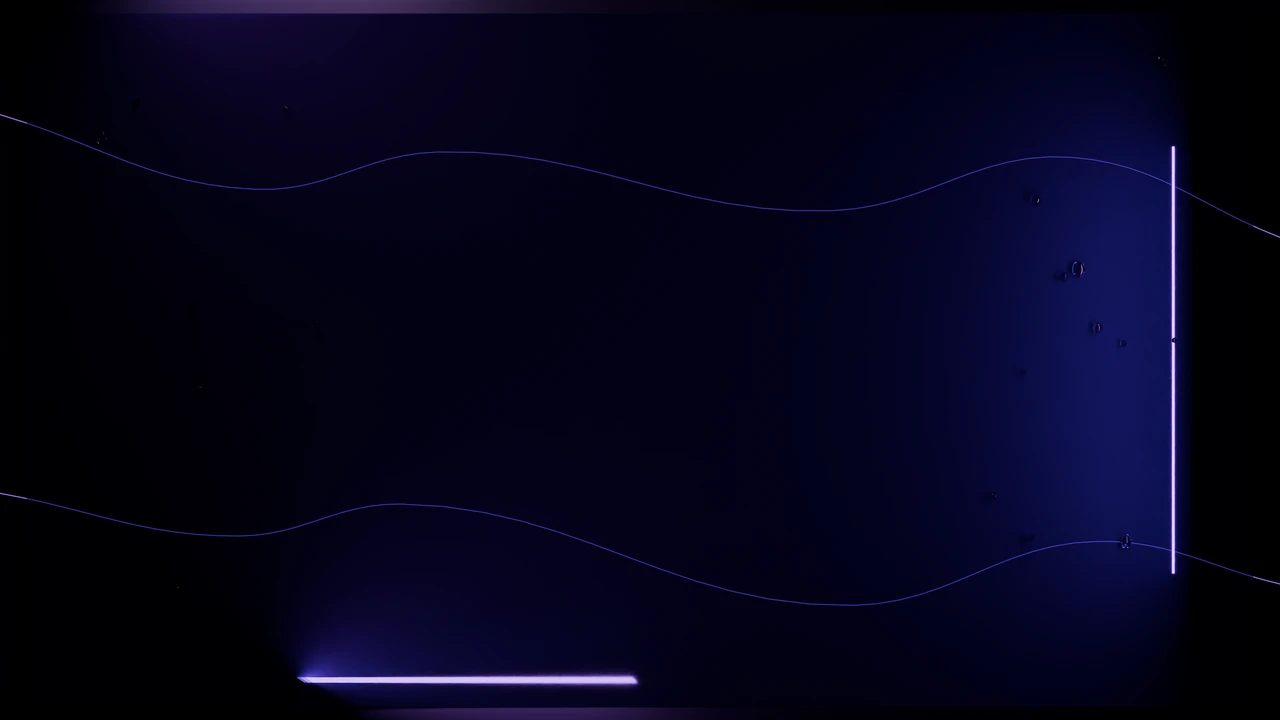
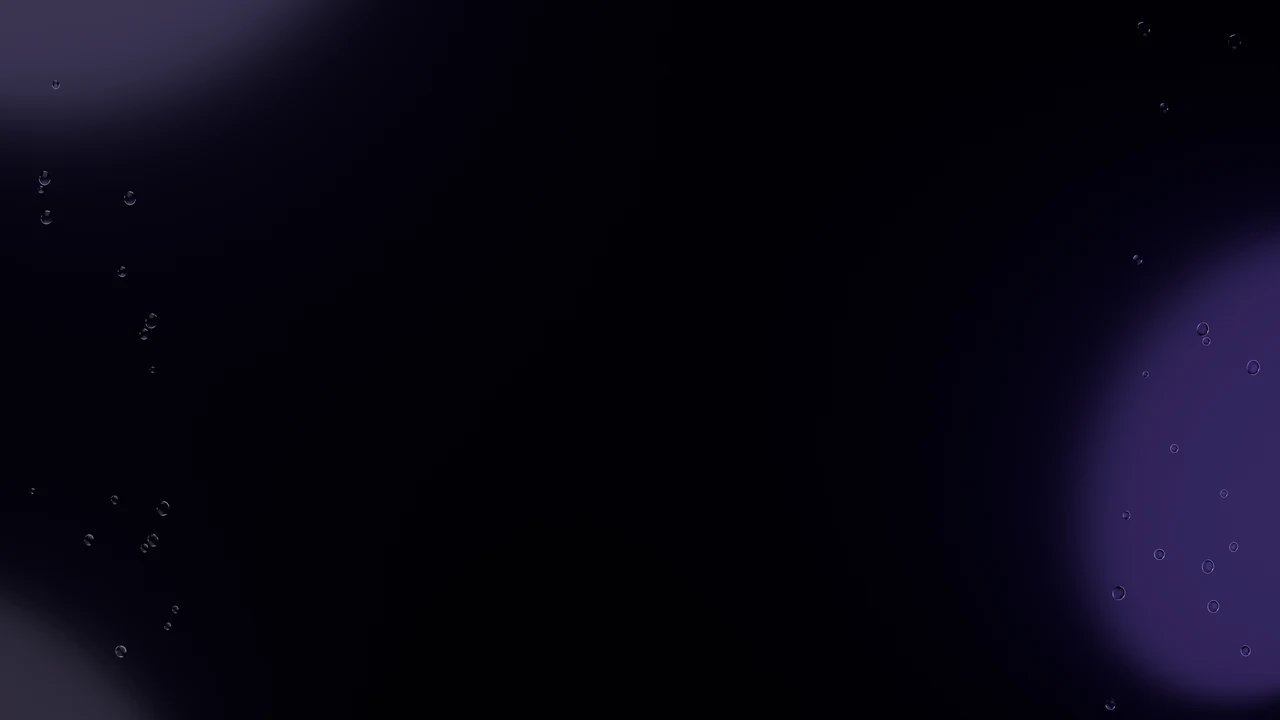
Refine quiet infinity glass and remove sweeping light effects

diff --git a/public/index.html b/public/index.html
@@ -16,10 +16,10 @@
   <link rel="icon" href="./assets/favicon/favicon.ico" sizes="any">
   <link rel="icon" type="image/png" sizes="32x32" href="./assets/favicon/favicon-32x32.png">
   <link rel="apple-touch-icon" href="./assets/favicon/apple-touch-icon.png">
-  <script src="./motion-preference.js?v=optical-2"></script>
+  <script src="./motion-preference.js?v=quiet-3"></script>
   <link rel="stylesheet" href="./home.css">
-  <link rel="stylesheet" href="./glass-depth.css?v=optical-2">
-<link rel="stylesheet" href="crystal-studio.css?v=optical-2">
+  <link rel="stylesheet" href="./glass-depth.css?v=quiet-3">
+<link rel="stylesheet" href="crystal-studio.css?v=quiet-3">
 </head>
 <body>
   <a class="skip-link" href="#obsah">Přejít na obsah</a>
@@ -34,8 +34,8 @@
       <div class="hero-copy"><h1 id="hero-title">Weby a aplikace, <em>které fungují.</em></h1><p>Navrhujeme weby, stavíme aplikace, automatizujeme práci a pomáháme s IT.</p><div class="actions"><a class="button button-primary" href="#kontakt">Kontakt <span aria-hidden="true">↗</span></a><a class="button button-secondary" href="#prace">Prohlédnout práci <span aria-hidden="true">↗</span></a></div></div>
       <div class="hero-art">
         <span class="glass-drop glass-drop-one" aria-hidden="true"></span><span class="glass-drop glass-drop-two" aria-hidden="true"></span>
-        <picture class="hero-art-poster" aria-hidden="true"><source media="(min-width: 1600px)" srcset="./assets/crystal-poster-2160.webp?v=optical-2"><source media="(max-width: 760px)" srcset="./assets/crystal-poster-720.webp?v=optical-2"><img src="./assets/crystal-poster-1280.webp?v=optical-2" alt="" width="1280" height="1280" fetchpriority="high"></picture>
-        <video class="hero-art-video" muted loop playsinline preload="none" aria-hidden="true" poster="./assets/crystal-poster-1280.webp?v=optical-2" data-mp4-small="./assets/crystal-loop-768.mp4?v=optical-2" data-mp4-medium="./assets/crystal-loop-1080.mp4?v=optical-2" data-mp4-large="./assets/crystal-loop-1440.mp4?v=optical-2"><source src="./assets/crystal-loop-768.mp4?v=optical-2" type="video/mp4"><source src="./assets/hero-glass-loop-720.webm" type="video/webm"></video>
+        <picture class="hero-art-poster" aria-hidden="true"><source media="(min-width: 1600px)" srcset="./assets/crystal-poster-2160.webp?v=quiet-3"><source media="(max-width: 760px)" srcset="./assets/crystal-poster-720.webp?v=quiet-3"><img src="./assets/crystal-poster-1280.webp?v=quiet-3" alt="" width="1280" height="1280" fetchpriority="high"></picture>
+        <video class="hero-art-video" muted loop playsinline preload="none" aria-hidden="true" poster="./assets/crystal-poster-1280.webp?v=quiet-3" data-mp4-small="./assets/crystal-loop-768.mp4?v=quiet-3" data-mp4-medium="./assets/crystal-loop-1080.mp4?v=quiet-3" data-mp4-large="./assets/crystal-loop-1440.mp4?v=quiet-3"><source src="./assets/crystal-loop-768.mp4?v=quiet-3" type="video/mp4"><source src="./assets/hero-glass-loop-720.webm" type="video/webm"></video>
       </div>
       <button class="hero-motion-toggle" type="button" hidden>Zapnout animace</button>
     </section>
@@ -60,6 +60,6 @@
     </div></section>
   </main>
   <footer class="site-footer"><div class="shell footer-layout footer-inner"><div><a class="brand" href="./index.html">Cingy<span>.</span>Tech</a><p>Weby, aplikace, automatizace a IT služby.</p></div><div class="footer-links"><a href="mailto:contact.cingytech@proton.me">contact.cingytech@proton.me</a><a href="/pages/omne.html">O Cingy.Tech</a><a href="/pages/blog/">Tipy a články</a><a href="/pages/kontakt.html">Kontakt</a><a href="/pages/privacy.html">Ochrana osobních údajů</a></div></div><div class="shell footer-bottom"><span>© 2026 Cingy.Tech</span><span>Kryštof Cingálek · IČO 29612071</span></div></footer>
-  <script src="./ads-tracking.js" defer></script><script src="./home.js?v=optical-2" defer></script><script src="./hero-orb.js?v=optical-2" defer></script><script src="./depth-motion.js?v=optical-2" defer></script>
+  <script src="./ads-tracking.js" defer></script><script src="./home.js?v=quiet-3" defer></script><script src="./hero-orb.js?v=quiet-3" defer></script><script src="./depth-motion.js?v=quiet-3" defer></script>
 </body>
 </html>

diff --git a/public/depth-motion.js b/public/depth-motion.js
@@ -9,7 +9,7 @@
   const allowed=()=>!root.classList.contains('motion-disabled')&&(!reduced.matches||root.classList.contains('motion-enabled'));
   const scene=document.createElement('div');
   scene.className='optical-scene';scene.setAttribute('aria-hidden','true');
-  ['optical-pane','optical-ray optical-ray-one','optical-ray optical-ray-two'].forEach(name=>{const layer=document.createElement('span');layer.className=name;scene.appendChild(layer);});
+  const pane=document.createElement('span');pane.className='optical-pane';scene.appendChild(pane);
   document.body.prepend(scene);
   const limited=innerWidth<=760||navigator.connection?.saveData||navigator.hardwareConcurrency<=4||navigator.deviceMemory<=4;
   scene.classList.toggle('optical-lite',Boolean(limited));
@@ -54,7 +54,7 @@
   surfaces.forEach(element=>{
     element.classList.add('optical-surface');
     const optics=document.createElement('span');optics.className='glass-optics';optics.setAttribute('aria-hidden','true');element.appendChild(optics);
-    ['glass-glint','glass-caustic'].forEach(name=>{const glint=document.createElement('span');glint.className=name;optics.appendChild(glint);});
+    const glint=document.createElement('span');glint.className='glass-glint';optics.appendChild(glint);
   });
   function resetSurface(element){['--tilt-x','--tilt-y','--glint-shift'].forEach(property=>element.style.removeProperty(property));}
   function configurePointer(){
@@ -62,26 +62,16 @@
     if(!allowed())return;
     pointerEvents=new AbortController();const signal=pointerEvents.signal,options={signal,passive:true};
     surfaces.forEach(element=>{
-      let rect,frame,position,wave;
-      const refract=()=>{
-        if(document.hidden||!allowed())return;
-        wave?.cancel();
-        const lens=element.querySelector(':scope > .glass-optics > .glass-caustic');
-        if(!lens?.animate)return;
-        wave=lens.animate([{opacity:0,transform:'translateX(-85%) scale(.65) rotate(-15deg)'},{opacity:.65,offset:.4,transform:'translateX(0) scale(1) rotate(-9deg)'},{opacity:0,transform:'translateX(85%) scale(1.2) rotate(-3deg)'}],{duration:850,easing:'cubic-bezier(.2,.7,.25,1)'});
-        active.add(wave);const current=wave;
-        current.finished.catch(()=>{}).finally(()=>active.delete(current));
-      };
+      let rect,frame,position;
       const invalidate=()=>{rect=null;};window.addEventListener('scroll',invalidate,{...options,capture:true});window.addEventListener('resize',invalidate,options);
-      signal.addEventListener('abort',()=>{cancelAnimationFrame(frame);wave?.cancel();},{once:true});
-      element.addEventListener('focusin',event=>{if(event.target===element||element.matches('.contact-form'))refract();},options);
+      signal.addEventListener('abort',()=>{cancelAnimationFrame(frame);},{once:true});
       if(!pointer.matches)return;
-      element.addEventListener('pointerenter',()=>{rect=element.getBoundingClientRect();refract();},options);
+      element.addEventListener('pointerenter',()=>{rect=element.getBoundingClientRect();},options);
       element.addEventListener('pointermove',event=>{
         if(event.pointerType==='touch')return;position={x:event.clientX,y:event.clientY};if(frame)return;
         frame=requestAnimationFrame(()=>{frame=null;if(!allowed()||document.hidden||signal.aborted)return;rect??=element.getBoundingClientRect();
           const x=Math.max(0,Math.min(1,(position.x-rect.left)/rect.width)),y=Math.max(0,Math.min(1,(position.y-rect.top)/rect.height));
-          element.style.setProperty('--tilt-x',`${(.5-y)*3.6}deg`);element.style.setProperty('--tilt-y',`${(x-.5)*6.5}deg`);element.style.setProperty('--glint-shift',`${x*rect.width*1.3}px`);
+          element.style.setProperty('--tilt-x',`${(.5-y)*2.4}deg`);element.style.setProperty('--tilt-y',`${(x-.5)*4}deg`);element.style.setProperty('--glint-shift',`${(x-.5)*14}px`);
         });
       },options);
       element.addEventListener('pointerleave',()=>{cancelAnimationFrame(frame);frame=null;rect=null;resetSurface(element);},options);

diff --git a/public/crystal-studio.css b/public/crystal-studio.css
@@ -11,26 +11,21 @@
 body{font-family:Manrope,"Segoe UI",Arial,sans-serif}
 body{isolation:isolate}
 .optical-scene{position:fixed;inset:0;z-index:-1;pointer-events:none;overflow:hidden;contain:strict;background:#090a10}
-.optical-pane{position:absolute;inset:-3%;background:url('./assets/optical-backdrop-2560.webp') center/cover no-repeat;opacity:.62}
-.optical-ray{position:absolute;left:-25%;width:150%;height:20%;border-radius:50%;opacity:.2;background:radial-gradient(ellipse,rgba(171,103,255,.20),rgba(71,30,122,.08) 38%,transparent 68%);transform:rotate(-13deg)}
-.optical-ray-one{top:22%}.optical-ray-two{bottom:8%;transform:rotate(12deg)}
-.optical-active .optical-ray-one{animation:optical-tide 14s ease-in-out infinite alternate}
-.optical-active .optical-ray-two{animation:optical-tide 19s ease-in-out -7s infinite alternate-reverse}
-@keyframes optical-tide{from{transform:translate3d(-2%,-12%,0) rotate(-12deg);opacity:.25}to{transform:translate3d(3%,22%,0) rotate(-8deg);opacity:.65}}
-.optical-lite .optical-ray-two{display:none}.optical-lite .optical-pane{background-image:url('./assets/optical-backdrop-1280.webp');opacity:.45}.optical-lite .optical-ray-one{animation:none}
+.optical-pane{position:absolute;inset:0;background:url('./assets/optical-backdrop-2560.webp?v=quiet-3') center/cover no-repeat;opacity:.68}
+.optical-lite .optical-pane{background-image:url('./assets/optical-backdrop-1280.webp?v=quiet-3');opacity:.62}
+@media(max-width:760px){.optical-lite .optical-pane{background-image:url('./assets/optical-backdrop-mobile.webp?v=quiet-3');background-position:right center}}
 .optical-surface{isolation:isolate}
 .optical-surface:is(.button,.header-cta,.btn){position:relative}
 .glass-optics{position:absolute;inset:0;z-index:5;border-radius:inherit;overflow:hidden;pointer-events:none}
-.glass-caustic{position:absolute;inset:0;z-index:5;border-radius:inherit;pointer-events:none;opacity:0;background:radial-gradient(ellipse at 42% 48%,transparent 31%,rgba(212,179,255,.16) 37%,rgba(249,233,255,.44) 38%,transparent 41%,rgba(188,126,255,.10) 45%,transparent 58%)}
-.optical-surface>.glass-optics>.glass-glint{border-radius:inherit;opacity:0;transition:opacity .35s,transform .12s ease-out}
-.optical-surface:hover>.glass-optics>.glass-glint,.optical-surface:focus-within>.glass-optics>.glass-glint{opacity:.75}
+/* Broad studio reflection: short pointer travel, no sweeping beam or lens ring. */
+.optical-surface>.glass-optics>.glass-glint{inset:-40% -30%;width:auto;border-radius:50%;background:radial-gradient(ellipse at 40% 20%,rgba(230,208,255,.55),rgba(158,104,227,.18) 32%,transparent 66%);transform:translate3d(var(--glint-shift,0px),0,0);opacity:0;transition:opacity .5s ease,transform .4s var(--depth-ease)}
+.optical-surface:hover>.glass-optics>.glass-glint,.optical-surface:focus-within>.glass-optics>.glass-glint{opacity:.12}
 .signal-icon,.signal-arrow{transition:transform .35s var(--depth-ease),background .35s}
 .signal:hover .signal-icon,.signal:focus-visible .signal-icon{transform:translateY(-2px) rotate(-3deg)}
 .signal:hover .signal-arrow,.signal:focus-visible .signal-arrow{transform:translate(2px,-2px);background:rgba(164,105,255,.25)}
 .subpage .glass:hover{border-color:rgba(221,187,255,.65)}
 .contact-form input:focus-visible,.contact-form textarea:focus-visible{outline:2px solid #c5a5ff;outline-offset:3px;box-shadow:0 0 20px -7px rgba(155,84,255,.45)}
 .demo-links a,.site-nav a{transition:color .25s,transform .25s}.demo-links a:hover,.site-nav a:hover{transform:translateY(-2px)}
-.optical-surface>.glass-glint,.optical-surface>.glass-caustic{overflow:hidden}
 html.motion-disabled .signal-icon,html.motion-disabled .signal-arrow,html.motion-disabled .demo-links a,html.motion-disabled .site-nav a{transform:none!important}
 @media(prefers-reduced-motion:reduce){html:not(.motion-enabled) .signal-icon,html:not(.motion-enabled) .signal-arrow,html:not(.motion-enabled) .demo-links a,html:not(.motion-enabled) .site-nav a{transform:none!important}}
 .brand{font-weight:800;letter-spacing:-.065em}

diff --git a/public/pages/weby-aplikace.html b/public/pages/weby-aplikace.html
@@ -8,10 +8,10 @@
   <meta name="theme-color" content="#0b0b12">
   <link rel="canonical" href="https://cingy.tech/pages/weby-aplikace.html">
   <link rel="icon" href="/assets/favicon/favicon.ico" sizes="any">
-  <script src="/motion-preference.js?v=optical-2"></script>
+  <script src="/motion-preference.js?v=quiet-3"></script>
   <link rel="stylesheet" href="/glass-depth.css?v=pages-1">
   <link rel="stylesheet" href="/pages.css?v=pages-1">
-<link rel="stylesheet" href="../crystal-studio.css?v=optical-2">
+<link rel="stylesheet" href="../crystal-studio.css?v=quiet-3">
 </head>
 <body class="subpage">
   <a class="skip-link" href="#page">Přejít na obsah</a>
@@ -69,6 +69,6 @@
     </div></section>
   </main>
   <footer class="site-footer"><div class="container footer-inner"><div class="footer-brand-group"><a class="footer-brand" href="#page">Cingy<span>.</span>Tech</a><p class="small">Weby, aplikace a automatizace pro podnikání.</p></div><div><nav class="footer-links" aria-label="Další informace"><a href="#sluzby">Řešení</a><a href="#cenik">Ceny</a><a href="#ukazky">Ukázky</a><a href="#kontakt">Kontakt</a><a href="/pages/privacy.html">Soukromí</a></nav><div class="footer-settings"><button class="page-motion-toggle" type="button" aria-pressed="true">Pozastavit animace</button></div><p class="footer-legal">© 2026 Cingy.Tech · Kryštof Cingálek · IČO 29612071</p></div></div></footer>
-  <script src="/ads-tracking.js" defer></script><script src="/script.js?v=pages-1" defer></script><script src="/pages.js?v=pages-1" defer></script><script src="/depth-motion.js?v=optical-2" defer></script>
+  <script src="/ads-tracking.js" defer></script><script src="/script.js?v=pages-1" defer></script><script src="/pages.js?v=pages-1" defer></script><script src="/depth-motion.js?v=quiet-3" defer></script>
 </body>
 </html>

diff --git a/public/pages/blog/wdblog1.html b/public/pages/blog/wdblog1.html
@@ -11,11 +11,11 @@
   <link rel="icon" type="image/png" sizes="16x16" href="../../assets/favicon/favicon-16x16.png">
   <link rel="apple-touch-icon" href="../../assets/favicon/apple-touch-icon.png">
   <link rel="manifest" href="../../assets/favicon/site.webmanifest">
-  <script src="../../motion-preference.js?v=optical-2"></script>
+  <script src="../../motion-preference.js?v=quiet-3"></script>
   <link rel="stylesheet" href="../../glass-depth.css?v=pages-1">
   <link rel="stylesheet" href="../../pages.css?v=pages-1">
   <link rel="canonical" href="https://cingy.tech/pages/blog/wdblog1">
-<link rel="stylesheet" href="../../crystal-studio.css?v=optical-2">
+<link rel="stylesheet" href="../../crystal-studio.css?v=quiet-3">
 </head>
 
 <body class="subpage">
@@ -86,6 +86,6 @@
   <script src="../../ads-tracking.js" defer></script>
   <script src="../../script.js?v=pages-1" defer></script>
   <script src="../../pages.js?v=pages-1" defer></script>
-  <script src="../../depth-motion.js?v=optical-2" defer></script>
+  <script src="../../depth-motion.js?v=quiet-3" defer></script>
 </body>
 </html>

diff --git a/public/pages/blog/wdblog2.html b/public/pages/blog/wdblog2.html
@@ -11,11 +11,11 @@
   <link rel="icon" type="image/png" sizes="16x16" href="../../assets/favicon/favicon-16x16.png">
   <link rel="apple-touch-icon" href="../../assets/favicon/apple-touch-icon.png">
   <link rel="manifest" href="../../assets/favicon/site.webmanifest">
-  <script src="../../motion-preference.js?v=optical-2"></script>
+  <script src="../../motion-preference.js?v=quiet-3"></script>
   <link rel="stylesheet" href="../../glass-depth.css?v=pages-1">
   <link rel="stylesheet" href="../../pages.css?v=pages-1">
   <link rel="canonical" href="https://cingy.tech/pages/blog/wdblog2">
-<link rel="stylesheet" href="../../crystal-studio.css?v=optical-2">
+<link rel="stylesheet" href="../../crystal-studio.css?v=quiet-3">
 </head>
 
 <body class="subpage">
@@ -86,6 +86,6 @@
   <script src="../../ads-tracking.js" defer></script>
   <script src="../../script.js?v=pages-1" defer></script>
   <script src="../../pages.js?v=pages-1" defer></script>
-  <script src="../../depth-motion.js?v=optical-2" defer></script>
+  <script src="../../depth-motion.js?v=quiet-3" defer></script>
 </body>
 </html>

diff --git a/public/pages/blog/wdblog3.html b/public/pages/blog/wdblog3.html
@@ -11,11 +11,11 @@
   <link rel="icon" type="image/png" sizes="16x16" href="../../assets/favicon/favicon-16x16.png">
   <link rel="apple-touch-icon" href="../../assets/favicon/apple-touch-icon.png">
   <link rel="manifest" href="../../assets/favicon/site.webmanifest">
-  <script src="../../motion-preference.js?v=optical-2"></script>
+  <script src="../../motion-preference.js?v=quiet-3"></script>
   <link rel="stylesheet" href="../../glass-depth.css?v=pages-1">
   <link rel="stylesheet" href="../../pages.css?v=pages-1">
   <link rel="canonical" href="https://cingy.tech/pages/blog/wdblog3">
-<link rel="stylesheet" href="../../crystal-studio.css?v=optical-2">
+<link rel="stylesheet" href="../../crystal-studio.css?v=quiet-3">
 </head>
 
 <body class="subpage">
@@ -87,6 +87,6 @@
   <script src="../../ads-tracking.js" defer></script>
   <script src="../../script.js?v=pages-1" defer></script>
   <script src="../../pages.js?v=pages-1" defer></script>
-  <script src="../../depth-motion.js?v=optical-2" defer></script>
+  <script src="../../depth-motion.js?v=quiet-3" defer></script>
 </body>
 </html>

diff --git a/public/pages/blog/blog1.html b/public/pages/blog/blog1.html
@@ -11,11 +11,11 @@
   <link rel="icon" type="image/png" sizes="16x16" href="../../assets/favicon/favicon-16x16.png">
   <link rel="apple-touch-icon" href="../../assets/favicon/apple-touch-icon.png">
   <link rel="manifest" href="../../assets/favicon/site.webmanifest">
-  <script src="../../motion-preference.js?v=optical-2"></script>
+  <script src="../../motion-preference.js?v=quiet-3"></script>
   <link rel="stylesheet" href="../../glass-depth.css?v=pages-1">
   <link rel="stylesheet" href="../../pages.css?v=pages-1">
   <link rel="canonical" href="https://cingy.tech/pages/blog/blog1">
-<link rel="stylesheet" href="../../crystal-studio.css?v=optical-2">
+<link rel="stylesheet" href="../../crystal-studio.css?v=quiet-3">
 </head>
 
 <body class="subpage">
@@ -97,6 +97,6 @@
   <script src="../../ads-tracking.js" defer></script>
   <script src="../../script.js?v=pages-1" defer></script>
   <script src="../../pages.js?v=pages-1" defer></script>
-  <script src="../../depth-motion.js?v=optical-2" defer></script>
+  <script src="../../depth-motion.js?v=quiet-3" defer></script>
 </body>
 </html>

diff --git a/public/pages/blog/blog2.html b/public/pages/blog/blog2.html
@@ -11,11 +11,11 @@
   <link rel="icon" type="image/png" sizes="16x16" href="../../assets/favicon/favicon-16x16.png">
   <link rel="apple-touch-icon" href="../../assets/favicon/apple-touch-icon.png">
   <link rel="manifest" href="../../assets/favicon/site.webmanifest">
-  <script src="../../motion-preference.js?v=optical-2"></script>
+  <script src="../../motion-preference.js?v=quiet-3"></script>
   <link rel="stylesheet" href="../../glass-depth.css?v=pages-1">
   <link rel="stylesheet" href="../../pages.css?v=pages-1">
   <link rel="canonical" href="https://cingy.tech/pages/blog/blog2">
-<link rel="stylesheet" href="../../crystal-studio.css?v=optical-2">
+<link rel="stylesheet" href="../../crystal-studio.css?v=quiet-3">
 </head>
 
 <body class="subpage">
@@ -96,6 +96,6 @@
   <script src="../../ads-tracking.js" defer></script>
   <script src="../../script.js?v=pages-1" defer></script>
   <script src="../../pages.js?v=pages-1" defer></script>
-  <script src="../../depth-motion.js?v=optical-2" defer></script>
+  <script src="../../depth-motion.js?v=quiet-3" defer></script>
 </body>
 </html>

diff --git a/public/pages/blog/blog3.html b/public/pages/blog/blog3.html
@@ -11,11 +11,11 @@
   <link rel="icon" type="image/png" sizes="16x16" href="../../assets/favicon/favicon-16x16.png">
   <link rel="apple-touch-icon" href="../../assets/favicon/apple-touch-icon.png">
   <link rel="manifest" href="../../assets/favicon/site.webmanifest">
-  <script src="../../motion-preference.js?v=optical-2"></script>
+  <script src="../../motion-preference.js?v=quiet-3"></script>
   <link rel="stylesheet" href="../../glass-depth.css?v=pages-1">
   <link rel="stylesheet" href="../../pages.css?v=pages-1">
   <link rel="canonical" href="https://cingy.tech/pages/blog/blog3">
-<link rel="stylesheet" href="../../crystal-studio.css?v=optical-2">
+<link rel="stylesheet" href="../../crystal-studio.css?v=quiet-3">
 </head>
 
 <body class="subpage">
@@ -94,6 +94,6 @@
   <script src="../../ads-tracking.js" defer></script>
   <script src="../../script.js?v=pages-1" defer></script>
   <script src="../../pages.js?v=pages-1" defer></script>
-  <script src="../../depth-motion.js?v=optical-2" defer></script>
+  <script src="../../depth-motion.js?v=quiet-3" defer></script>
 </body>
 </html>

diff --git a/public/pages/blog/blog4.html b/public/pages/blog/blog4.html
@@ -11,11 +11,11 @@
   <link rel="icon" type="image/png" sizes="16x16" href="../../assets/favicon/favicon-16x16.png">
   <link rel="apple-touch-icon" href="../../assets/favicon/apple-touch-icon.png">
   <link rel="manifest" href="../../assets/favicon/site.webmanifest">
-  <script src="../../motion-preference.js?v=optical-2"></script>
+  <script src="../../motion-preference.js?v=quiet-3"></script>
   <link rel="stylesheet" href="../../glass-depth.css?v=pages-1">
   <link rel="stylesheet" href="../../pages.css?v=pages-1">
   <link rel="canonical" href="https://cingy.tech/pages/blog/blog4">
-<link rel="stylesheet" href="../../crystal-studio.css?v=optical-2">
+<link rel="stylesheet" href="../../crystal-studio.css?v=quiet-3">
 </head>
 
 <body class="subpage">
@@ -93,6 +93,6 @@
   <script src="../../ads-tracking.js" defer></script>
   <script src="../../script.js?v=pages-1" defer></script>
   <script src="../../pages.js?v=pages-1" defer></script>
-  <script src="../../depth-motion.js?v=optical-2" defer></script>
+  <script src="../../depth-motion.js?v=quiet-3" defer></script>
 </body>
 </html>

diff --git a/public/pages/blog/blog5.html b/public/pages/blog/blog5.html
@@ -11,11 +11,11 @@
   <link rel="icon" type="image/png" sizes="16x16" href="../../assets/favicon/favicon-16x16.png">
   <link rel="apple-touch-icon" href="../../assets/favicon/apple-touch-icon.png">
   <link rel="manifest" href="../../assets/favicon/site.webmanifest">
-  <script src="../../motion-preference.js?v=optical-2"></script>
+  <script src="../../motion-preference.js?v=quiet-3"></script>
   <link rel="stylesheet" href="../../glass-depth.css?v=pages-1">
   <link rel="stylesheet" href="../../pages.css?v=pages-1">
   <link rel="canonical" href="https://cingy.tech/pages/blog/blog5">
-<link rel="stylesheet" href="../../crystal-studio.css?v=optical-2">
+<link rel="stylesheet" href="../../crystal-studio.css?v=quiet-3">
 </head>
 
 <body class="subpage">
@@ -91,6 +91,6 @@
   <script src="../../ads-tracking.js" defer></script>
   <script src="../../script.js?v=pages-1" defer></script>
   <script src="../../pages.js?v=pages-1" defer></script>
-  <script src="../../depth-motion.js?v=optical-2" defer></script>
+  <script src="../../depth-motion.js?v=quiet-3" defer></script>
 </body>
 </html>
